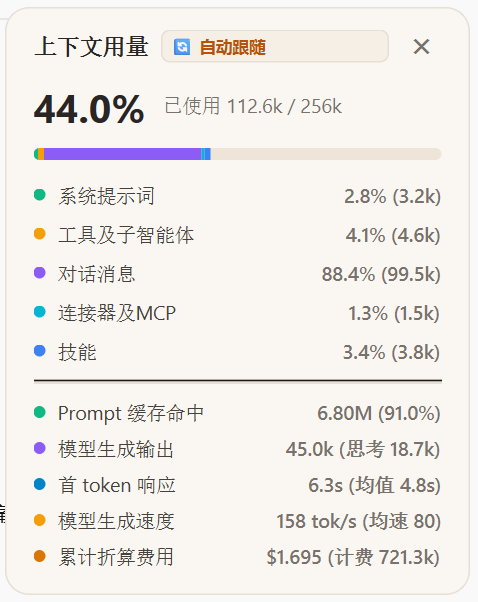
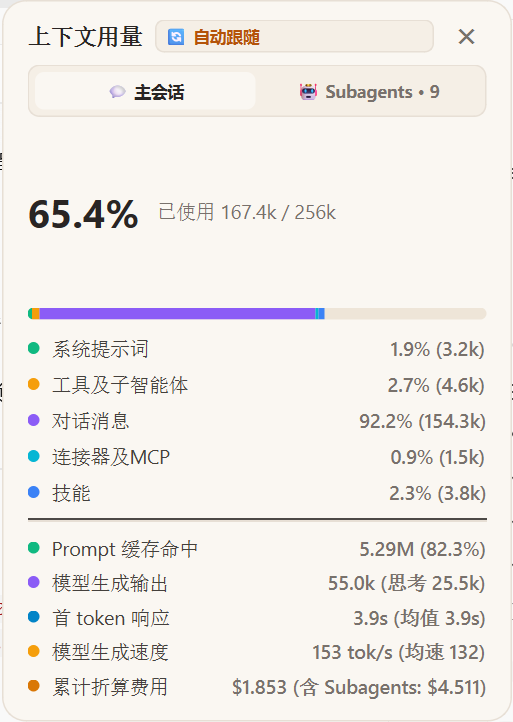
docs(token-capsule): 升级产品巡礼展示矩阵与Subagent集群双模态文档

diff --git a/tools/token-capsule/.scratch/readme-subagent-cluster-showcase/spec.md b/tools/token-capsule/.scratch/readme-subagent-cluster-showcase/spec.md
@@ -1,0 +1,111 @@
+Status: closed
+
+# Specification: Subagent Cluster & Hybrid Layout Showcase for Repository READMEs
+
+## Problem Statement
+
+The repository has undergone significant feature and architectural updates over recent commits—specifically the introduction of recursive multi-level Subagent discovery, real-time cluster telemetry, dual-billing linkage, and hybrid layout modes (Compact Tabbed 320px vs Dual-Wing Radar 680px with persistent system tray switching).
+
+However, the public-facing documentation across GitHub (`README.md` and `README_EN.md`) still reflects the initial single-session v1 release:
+1. The existing telemetry screenshots show obsolete single-card interfaces without the Subagents tab or dual-billing cost rollups.
+2. The revolutionary multi-level Subagent tree hierarchy (L1 -> L2 -> L3) and the expansive Dual-Wing Radar layout mode are completely absent from the visual tour and core feature catalog.
+3. Visitors landing on the repository cannot perceive the tool's true capabilities when managing complex, multi-agent AI coding sessions in Google Antigravity.
+
+The maintainer has provided three brand-new, high-resolution screenshots capturing these capabilities in action:
+- `D:\agent\gemini\new\图库\屏幕截图 2026-09-04 222916.png` (Dual-Wing Radar Mode with multi-level recursive Subagent tree, global combined billing, and context settings menu).
+- `D:\agent\gemini\new\图库\屏幕截图 2026-09-04 221756.png` (Compact Tab Mode - Primary Session view with top tab bar and dual billing summary).
+- `D:\agent\gemini\new\图库\屏幕截图 2026-09-04 221746.png` (Compact Tab Mode - Subagents view with live cluster status badges and nested accordion task breakdown).
+
+These new assets must replace the outdated imagery, introduce the major new features, and present a cohesive, bilingual visual showcase aligned with open-source presentation standards.
+
+## Solution
+
+1. **Asset Ingestion and Standardization**:
+   - Ingest the three newly captured high-resolution screenshot files from `D:\agent\gemini\new\图库/`.
+   - Replace the outdated single-session telemetry card with the new Compact Tab Primary Session view showing the tab bar and dual billing linkage.
+   - Standardize and ingest the Compact Subagents Tab Accordion view and the Dual-Wing Radar view into the version-controlled image directory.
+
+2. **Core Feature Section Evolution**:
+   - Elevate the Subagent cluster monitoring engine, recursive multi-level hierarchy, and dual billing linkage to prominent top-level features in both Chinese and English READMEs.
+   - Introduce the hybrid layout architecture (Compact Tabbed vs Dual-Wing Radar) and system tray/context menu mode switching as flagship usability enhancements.
+
+3. **Product Tour Layout Restructuring**:
+   - Restructure the Product Tour into a structured 3-tier showcase matrix:
+     - **Tier 1 (Desktop Integration)**: Minimal Floating Pill alongside In-Situ Antigravity IDE Workspace.
+     - **Tier 2 (Compact Dual-Tab Perspectives)**: Primary Session Telemetry Card paired side-by-side with Subagent Cluster Accordion Card.
+     - **Tier 3 (Full-Scale Radar & Tray Orchestration)**: Dual-Wing Recursive Radar layout alongside the System Tray Theme and Layout Switcher.
+   - Accompany each screenshot with authentic, informative captions detailing the exact engineering mechanics displayed.
+
+4. **Architectural Diagram & Bilingual Documentation Symmetry**:
+   - Update the Mermaid system architecture flowchart to reflect the multi-file SQLite WAL polling loop and transcript sniffing engine.
+   - Maintain strict structural, typographic, and semantic symmetry between the Chinese and English documentation files.
+   - Synchronize the tool-scoped documentation to ensure internal consistency.
+
+## User Stories
+
+1. As an open-source explorer landing on the GitHub repository, I want to see an up-to-date visual showcase displaying the latest Subagent cluster monitoring capabilities, so that I immediately recognize the tool's modern feature set.
+2. As an AI engineer managing multi-agent workflows in Antigravity, I want to see the Dual-Wing Radar layout screenshot, so that I understand how the tool displays primary sessions and derivative agents side-by-side without context switching.
+3. As a developer evaluating desktop footprint, I want to compare the 320px Compact Tab mode with the 680px Dual-Wing Radar mode in the Product Tour, so that I can see how the application adapts to both minimal and expansive workspace needs.
+4. As a cost-conscious developer, I want to see how the dual-billing linkage displays combined Primary Session and Subagent cluster expenditure, so that I know I can avoid unexpected API budget overruns.
+5. As a user operating nested sub-agents (e.g. Teamwork Lead -> Project Orchestrator -> Workers), I want to see the multi-level tree hierarchy in action, so that I know recursive tasks are grouped and rolled up logically.
+6. As a user browsing the Compact Tab mode, I want to see both the Primary Session tab and the Subagents accordion tab, so that I understand the segmented navigation model.
+7. As an engineer interested in desktop ergonomics, I want to see the system tray and right-click context menu demonstrating layout mode and theme switching, so that I know how to control the window without opening heavy settings panels.
+8. As an English-speaking developer reading the international documentation, I want all captions, table headers, and feature highlights to use precise, idiomatic English terminology, so that I receive the exact same clarity as Chinese readers.
+9. As a mobile or narrow-screen reader, I want the image grid tables to adapt smoothly with percentage-based responsive columns, so that the documentation renders cleanly across diverse viewport sizes.
+10. As a repository maintainer, I want all referenced image assets tracked locally in version control with kebab-case conventions, so that external CDN degradation or broken relative links are permanently prevented.
+11. As a developer inspecting the system architecture, I want an updated Mermaid diagram that shows how `transcript.jsonl` sniffing connects to Subagent WAL polling and Proto decoding, so that I can quickly grasp the telemetry pipeline.
+12. As a monorepo contributor, I want the tool-level documentation and the repository root documentation to remain mutually aligned, so that developers working in either directory encounter identical expectations.
+
+## Implementation Decisions
+
+- **Asset Replacement and Naming Scheme**:
+  - Replace the existing single-session telemetry screenshot (`03-telemetry-card.png`) with the updated Compact Tab Primary Session screenshot (`屏幕截图 2026-09-04 221756.png`), preserving existing inbound references while refreshing the visual to show the tab bar and dual billing.
+  - Ingest the Compact Tab Subagents Accordion screenshot (`屏幕截图 2026-09-04 221746.png`) as a newly tracked asset named `06-subagent-accordion-tab.png`.
+  - Ingest the Dual-Wing Radar screenshot (`屏幕截图 2026-09-04 222916.png`) as a newly tracked asset named `07-dual-wing-radar.png`.
+
+- **Visual Showcase Matrix Architecture**:
+  - Organize the Product Tour into three thematic two-column rows using HTML tables:
+    - Row 1 (Form & Flow): Collapsed Floating Pill & In-Situ Workspace.
+    - Row 2 (Compact Dual-Mode): Primary Session 5-Segment Telemetry & Subagent Cluster Accordion Card.
+    - Row 3 (Full-Scale Radar & Control): Dual-Wing Multi-Level Recursive Radar & System Tray Theme/Layout Control.
+  - Use bold title headings and explanatory subtext within `<sub>` tags for each item.
+
+- **Feature Catalog Restructuring**:
+  - Add explicit headings for "Subagent Cluster Telemetry & Recursive Tree Hierarchy" and "Hybrid Dual-Layout Modes (Compact Tab vs Dual-Wing Radar)".
+  - Highlight key technical guarantees: zero-jitter active session tracking, multi-level cascade cost rollups, non-rebounding accordion state memory, and persistent tray configuration.
+
+- **Architecture Diagram Enhancement**:
+  - Expand the Mermaid pipeline: from active session detection to concurrent extraction of Subagent UUIDs via `transcript.jsonl`, parallel SQLite WAL polling, Proto usage blob decoding, and reactive dispatch to Qt UI components.
+
+- **Bilingual Symmetry Mandate**:
+  - Every modification applied to `README.md` must be mirrored in `README_EN.md` with idiomatic technical translations (e.g. "Dual-Wing Radar Mode", "Recursive Multi-Level Hierarchy", "Dual-Billing Linkage").
+
+## Testing Decisions
+
+- **Good Test Definition**:
+  - A good test validates observable documentation artifacts and asset integrity from an end-user or renderer perspective: file existence, image readability, markdown syntax validity, link resolution, HTML tag completeness, and git tree consistency. It does not probe internal PySide6 or SQLite runtime code.
+
+- **Seams Tested**:
+  - **Highest Seam: Documentation & Asset Integrity Seam (Static Verification)**:
+    - Verification that all ingested PNG files exist at their target paths with non-zero byte size.
+    - Verification that every `<img>` tag and markdown link resolves to a valid, existing relative file path.
+    - Verification that all HTML table tags (`<table>`, `<tr>`, `<td>`, `<sub>`, `<p>`) are properly matched and closed.
+    - Verification that the Mermaid code block complies with valid Mermaid syntax.
+    - Verification that `README.md` and `README_EN.md` have matching heading counts and corresponding image references.
+
+- **Prior Art**:
+  - The previous visual showcase release (`tools/token-capsule/.scratch/readme-visual-showcase/`) used automated static verification of image existence and markdown link parity prior to git publication.
+
+## Out of Scope
+
+- Modifying the underlying PySide6 UI or Data Engine source code (the application features are already fully implemented and verified in preceding commits).
+- Generating video demonstrations or animated GIF assets (static high-resolution PNGs are specified).
+- Changing root monorepo governance files beyond README and image assets.
+
+## Further Notes
+
+- The three source screenshots are located at:
+  - `D:\agent\gemini\new\图库\屏幕截图 2026-09-04 222916.png`
+  - `D:\agent\gemini\new\图库\屏幕截图 2026-09-04 221756.png`
+  - `D:\agent\gemini\new\图库\屏幕截图 2026-09-04 221746.png`
+- The spec is published directly to the project issue tracker under `tools/token-capsule/.scratch/readme-subagent-cluster-showcase/spec.md`.

diff --git a/README.md b/README.md
@@ -48,13 +48,22 @@
   内置纯 Python 原生实现的无依赖 Protobuf 解码器，直接从 SQLite WAL 日志中提取 `gen_metadata` 二进制数据块，精确计算：
   * **TTFT (Time To First Token)**：首字响应延迟（毫秒级）
   * **Speed (tok/s)**：流式生成吞吐速率（当轮速度与全会话历史加权均值）
-* 💰 **财务计费估算 (Cost & Cache Metering)**  
-  实时统计未缓存 Prompt、生成 Candidate、Prompt Cache 缓存命中量及深度思考（Thinking）Token，换算美元开销并计算缓存命中收益率。
+* 🤖 **Subagent 智能体集群监控与多层级树形级联 (Subagent Cluster & Recursive Tree Hierarchy)**  
+  * 自动监听主会话 `transcript.jsonl`，毫秒级提取所有派生子智能体（Subagents）及其业务角色与运行状态（运行中/已完成）。
+  * 业界率先支持 **L1 ➔ L2 ➔ L3 多层级嵌套树形级联展示**（如 Teamwork Lead ➔ Project Orchestrator ➔ Workers）。
+  * 节点自身计费独立核算，派生子任务自动级联汇总（如 `派生 16 个子任务 (6.78M · $17.701)`）。
+  * 手风琴卡片状态智能记忆防抖，轮询重绘不回弹、不抖动，彻底消除历史日志干扰。
+* 📐 **混合双布局体系 (Hybrid Dual-Layout Modes)**  
+  * **紧凑单卡模式 (Compact Tabbed Mode, 320px)**：顶部分段 Tab 丝滑切换「💬 主会话」与「🤖 Subagents · N」，支持手风琴平滑折叠展开，适合日常专注编码。
+  * **旁置双翼模式 (Dual-Wing Radar Mode, 680px)**：左右双屏并列展示主会话物理卡片与集群实时雷达，一屏尽览多 Agent 协同，底部配备全局联合账单条。
+* 💰 **财务计费估算与双计费联动 (Cost & Dual-Billing Linkage)**  
+  * 物理上下文与财务口径解耦：主会话进度条严格反映 256k 物理窗口，底部同步展示 `累计折算费用: $X.XXX (含 Subagents: $Y.YYY)`。
+  * 实时统计未缓存 Prompt、生成 Candidate、Prompt Cache 命中量及深度思考（Thinking）Token，换算美元开销并计算缓存收益。
 * 🎨 **5 套主题风格与桌面极简交互**  
   * 优雅的无边框半透明微型胶囊（药丸）造型，鼠标随心拖拽，点击一键展开/折叠详细卡片。
   * **5 套精美主题实时热切**：极简明亮、深邃暗夜、磨砂极光、赛博黑客、暖阳纸墨，自动持久化记忆。
   * **会话快速切换**：支持下拉历史会话快速复盘，或一键开启“自动跟随”。
-  * **完善的系统托盘**：右键托盘支持开机自启（注册表托管）、窗口总在最前、位置重置（右上角）与安全退出。
+  * **完善的系统托盘与右键菜单**：右键支持 **「📐 布局模式」**（单卡/双翼切换）、**「🎨 主题风格」**、开机自启（注册表托管）、窗口总在最前、位置重置（右上角）与安全退出。
 * 📦 **免 Python 环境独立运行**  
   已预编译为独立单文件可执行文件（`token-capsule.exe`），无需安装 Python 或任何依赖，即拷即用。
 
@@ -70,21 +79,33 @@
       <sub><b>极简悬浮药丸形态 (Compact Floating Pill)</b><br />无边框半透明胶囊设计，沉浸式贴附在 IDE 右上角，随心拖拽，零视觉干扰实时呈现当前 Token 概览与当轮生成速率。</sub>
     </td>
     <td width="50%" align="center" valign="top">
-      <img src="docs/images/03-telemetry-card.png" alt="五维遥测与财务明细卡片" width="100%" />
-      <br />
-      <sub><b>五维遥测与财务明细卡片 (Telemetry & Cost Card)</b><br />单击展开详细透视看板：System / Tools / Messages / MCP / Skills 5 分段精准拆解、TTFT 首字延迟、当轮与加权均值 tok/s 及实时美元成本换算。</sub>
-    </td>
-  </tr>
-  <tr>
-    <td width="50%" align="center" valign="top">
       <img src="docs/images/04-in-situ-expanded.png" alt="IDE 工作区原位协同" width="100%" />
       <br />
       <sub><b>IDE 工作区原位协同 (In-Situ Workspace Workflow)</b><br />与 Google Antigravity 界面无缝伴生融合，通过 CDP 协议独占锁定前台活跃会话，无论后台有多少 Agent 并发均不跳变。</sub>
     </td>
+  </tr>
+  <tr>
     <td width="50%" align="center" valign="top">
-      <img src="docs/images/05-tray-menu-themes.png" alt="系统托盘与 5 套主题热切" width="100%" />
+      <img src="docs/images/03-telemetry-card.png" alt="紧凑单卡 - 主会话五维透视与双计费" width="100%" />
       <br />
-      <sub><b>系统托盘与 5 套主题热切 (System Tray & 5-Theme Switcher)</b><br />纯亮、暗夜、极光、黑客、暖阳 5 大精美主题实时无缝热切，右键托盘支持开机自启、窗口置顶、位置重置与优雅退出。</sub>
+      <sub><b>紧凑单卡 · 主会话五维透视 (Compact Tab: Primary Session)</b><br />顶部 Tab 栏切换，展示 System / Tools / Messages / MCP / Skills 5 分段精准拆解、TTFT 首字延迟、当轮与加权 tok/s 速率及 <b>双计费联动折算</b>（含 Subagents 费用）。</sub>
+    </td>
+    <td width="50%" align="center" valign="top">
+      <img src="docs/images/06-subagent-accordion-tab.png" alt="紧凑单卡 - Subagent 集群手风琴" width="100%" />
+      <br />
+      <sub><b>紧凑单卡 · Subagent 集群手风琴 (Compact Tab: Subagents Accordion)</b><br />切换至 <code>[🤖 Subagents · N]</code> 标签页，直观展示集群计费消耗大盘条、运行/完成状态指示灯，以及支持平滑折叠展开的多层级任务明细卡片。</sub>
+    </td>
+  </tr>
+  <tr>
+    <td width="50%" align="center" valign="top">
+      <img src="docs/images/07-dual-wing-radar.png" alt="旁置双翼模式与多层级递归雷达" width="100%" />
+      <br />
+      <sub><b>旁置双翼模式 · 多层级递归雷达 (Dual-Wing Radar & Multi-Level Tree)</b><br />680px 左右双翼全景并列，L1 ➔ L2 ➔ L3 多层级嵌套任务树形级联展示，支持派生任务收起/展开与向上汇总计费，底部全局联合账单结算，右键托盘一键无缝热切。</sub>
+    </td>
+    <td width="50%" align="center" valign="top">
+      <img src="docs/images/05-tray-menu-themes.png" alt="系统托盘与 5 套主题/布局热切" width="100%" />
+      <br />
+      <sub><b>系统托盘 · 5 套主题与布局模式热切 (System Tray & Controls)</b><br />纯亮、暗夜、极光、黑客、暖阳 5 大精美主题即切即用，右键支持「📐 布局模式」（单卡/双翼）切换、开机自启、窗口置顶、位置重置与优雅退出。</sub>
     </td>
   </tr>
 </table>
@@ -94,14 +115,31 @@
 ## 🏛 系统工作原理
 
 ```mermaid
-flowchart LR
-    A[Antigravity 进程] -->|写入调试端口| B[DevToolsActivePort]
-    B -->|HTTP /json 探针| C[CDP 嗅探器]
-    C -->|提取前台聚焦会话 UUID| D[Active Session]
-    D -->|300ms 只读无锁轮询| E[SQLite .db & .db-wal]
-    E -->|读取 gen_metadata Blob| F[纯 Python Proto 解码器]
-    F -->|解析 5 大分段 / TTFT / tok/s| G[数据引擎]
-    G -->|Qt Signal/Slot| H[PySide6 桌面悬浮胶囊]
+flowchart TD
+    subgraph AntigravityIDE["Google Antigravity IDE"]
+        A[Antigravity 进程] -->|写入调试端口| B[DevToolsActivePort]
+        C[Active Session 轨迹] -->|追加日志| D[transcript.jsonl]
+    end
+
+    subgraph Engine["数据探针与聚合引擎 (Data Engine)"]
+        B -->|HTTP /json 探针| E[CDP 嗅探器]
+        E -->|提取前台聚焦会话 UUID| F[活跃会话锁定]
+        D -->|提取派生 Subagent 关系| G[递归 Subagent 发现器]
+        F -->|300ms 只读无锁轮询| H[主会话 SQLite & WAL]
+        G -->|增量 mtime 轮询池| I[各 Subagent SQLite & WAL]
+        H -->|读取 gen_metadata Blob| J[纯 Python Proto 解码器]
+        I -->|读取 gen_metadata Blob| J
+        J -->|5 分段 / TTFT / tok/s| K[主会话用量指标]
+        J -->|多级树形 Rollup / 状态| L[集群级联用量指标]
+        K & L -->|联合结算联动| M[双计费与聚合数据中心]
+    end
+
+    subgraph UI["PySide6 桌面伴生胶囊 (Capsule UI)"]
+        M -->|Qt Signal/Slot| N{布局模式}
+        N -->|紧凑单卡 320px| O[Compact Tab: 主会话 / Subagents 手风琴]
+        N -->|旁置双翼 680px| P[Dual-Wing Radar: 左翼主会话 + 右翼全景雷达]
+        Q[系统托盘 / 右键菜单] -->|切换布局 & 5 套主题| N
+    end
 ```
 
 ---

diff --git a/README_EN.md b/README_EN.md
@@ -48,13 +48,22 @@ When developing with **Google Antigravity**, developers frequently encounter the
   Ships with a pure-Python Protobuf parser that directly decodes `gen_metadata` blobs from SQLite WAL logs without external dependencies:
   * **TTFT (Time To First Token)**: Millisecond-level first-token response latency
   * **Speed (tok/s)**: Streaming generation throughput (both current turn and historical weighted average)
-* 💰 **Turn & Cumulative Cost Metering**  
-  Tracks prompt tokens, candidate tokens, Prompt Cache hits, and deep thinking tokens in real time, calculating actual dollar costs and cache hit savings.
+* 🤖 **Subagent Cluster Telemetry & Recursive Tree Hierarchy**  
+  * Automatically sniffs `transcript.jsonl` to extract child Subagents with their semantic role names and live status (`running` / `completed`).
+  * Industry-first support for **L1 ➔ L2 ➔ L3 multi-level recursive tree cascades** (e.g., Teamwork Lead ➔ Project Orchestrator ➔ Workers).
+  * Node-level independent billing plus automatic descendant rollup (e.g., `Derived 16 subtasks (6.78M · $17.701)`).
+  * Persistent accordion state memory across polling cycles—zero jitter, no involuntary collapse, and complete isolation from stale historical sessions.
+* 📐 **Hybrid Dual-Layout Modes**  
+  * **Compact Tabbed Mode (320px)**: Top segmented tabs to switch seamlessly between `[💬 Primary Session]` and `[🤖 Subagents · N]` with smooth collapsible accordion cards for distraction-free coding.
+  * **Dual-Wing Radar Mode (680px)**: Side-by-side panoramic split view displaying the primary session card on the left and full-scale subagent cluster radar on the right, complete with a global combined billing bar.
+* 💰 **Turn & Cumulative Cost Metering with Dual-Billing Linkage**  
+  * Decoupled physical context and financial accounting: Primary 256k progress bar strictly tracks active window capacity, while the footer displays `Total Cost: $X.XXX (incl. Subagents: $Y.YYY)`.
+  * Real-time tracking of uncached prompt, generated candidates, Prompt Cache hits, and deep thinking tokens with live dollar conversions.
 * 🎨 **5 Beautiful Built-in Themes & Modern Desktop UX**  
   * Ultra-compact frameless pill shape with smooth mouse dragging and one-click card expansion.
   * **5 live-switchable themes**: Pure Light, Obsidian Dark, Frosted Aurora, Matrix Neon, and Warm Paper (persisted across restarts).
   * **Session Quick Switching**: Dropdown menu to inspect recent conversations or lock onto Auto-Follow.
-  * **System Tray Ecosystem**: Right-click tray icon to toggle Windows startup (HKCU registry), keep window always-on-top, reset position to the top-right corner, or exit cleanly.
+  * **Comprehensive System Tray & Context Menu**: Right-click to switch **「📐 Layout Mode」** (Compact Tab / Dual-Wing Radar), cycle **「🎨 Themes」**, toggle Windows startup (HKCU registry), keep window always-on-top, reset position to the top-right corner, or exit cleanly.
 * 📦 **Standalone Windows Executable**  
   Ships as a pre-compiled standalone binary (`token-capsule.exe`). No Python runtime or package installation required.
 
@@ -70,21 +79,33 @@ When developing with **Google Antigravity**, developers frequently encounter the
       <sub><b>Ultra-Compact Floating Pill</b><br />Frameless, translucent floating widget docked unobtrusively in your workspace. Drag anywhere with zero clutter while tracking active session tokens and streaming throughput.</sub>
     </td>
     <td width="50%" align="center" valign="top">
-      <img src="docs/images/03-telemetry-card.png" alt="5-Segment Telemetry & Cost Breakdown Card" width="100%" />
-      <br />
-      <sub><b>5-Segment Telemetry & Cost Breakdown Card</b><br />Click to expand in-depth telemetry: exact breakdown across System, Tools, Messages, MCP, and Skills, alongside TTFT latency, streaming tok/s, and real-time dollar cost metering.</sub>
-    </td>
-  </tr>
-  <tr>
-    <td width="50%" align="center" valign="top">
       <img src="docs/images/04-in-situ-expanded.png" alt="In-Situ Antigravity Workspace Integration" width="100%" />
       <br />
       <sub><b>In-Situ Antigravity Workspace Integration</b><br />Seamless companion experience floating alongside active agent workflows, locked to your foreground conversation via CDP without session jumping.</sub>
     </td>
+  </tr>
+  <tr>
+    <td width="50%" align="center" valign="top">
+      <img src="docs/images/03-telemetry-card.png" alt="Compact Tab - Primary Session Telemetry & Dual Billing" width="100%" />
+      <br />
+      <sub><b>Compact Tab · Primary Session Telemetry (5-Segment Breakdown)</b><br />Segmented tab bar navigation detailing System / Tools / Messages / MCP / Skills breakdown, TTFT latency, streaming tok/s, and <b>linked dual-billing rollups</b> (including Subagent expenditures).</sub>
+    </td>
+    <td width="50%" align="center" valign="top">
+      <img src="docs/images/06-subagent-accordion-tab.png" alt="Compact Tab - Subagents Cluster Accordion" width="100%" />
+      <br />
+      <sub><b>Compact Tab · Subagents Cluster Accordion</b><br />Switch to the <code>[🤖 Subagents · N]</code> tab for a cluster summary header, active/completed status indicators, and smooth multi-level collapsible task detail cards.</sub>
+    </td>
+  </tr>
+  <tr>
+    <td width="50%" align="center" valign="top">
+      <img src="docs/images/07-dual-wing-radar.png" alt="Dual-Wing Radar Mode & Multi-Level Recursive Tree" width="100%" />
+      <br />
+      <sub><b>Dual-Wing Radar Mode · Multi-Level Recursive Tree</b><br />680px panoramic side-by-side layout displaying L1 ➔ L2 ➔ L3 recursive task hierarchy, expandable child tasks with rollup cost rollups, combined global billing, and instant tray switching.</sub>
+    </td>
     <td width="50%" align="center" valign="top">
       <img src="docs/images/05-tray-menu-themes.png" alt="System Tray Menu & 5-Theme Switcher" width="100%" />
       <br />
-      <sub><b>System Tray Menu & 5-Theme Switcher</b><br />Hot-switch instantly across 5 curated themes (Pure Light, Obsidian Dark, Frosted Aurora, Matrix Neon, Warm Paper) with startup toggle, window pinning, and quick position reset.</sub>
+      <sub><b>System Tray Menu · 5 Themes & Layout Switcher</b><br />Instant hot-switching across 5 curated themes (Pure Light, Obsidian Dark, Frosted Aurora, Matrix Neon, Warm Paper), layout mode toggle (Single / Dual-Wing), autostart, window pinning, and position reset.</sub>
     </td>
   </tr>
 </table>
@@ -94,14 +115,31 @@ When developing with **Google Antigravity**, developers frequently encounter the
 ## 🏛 Architecture & Workflow
 
 ```mermaid
-flowchart LR
-    A[Antigravity Process] -->|Writes Debug Port| B[DevToolsActivePort]
-    B -->|HTTP /json Probe| C[CDP Sniffer]
-    C -->|Extracts Foreground UUID| D[Active Session]
-    D -->|300ms Read-Only Polling| E[SQLite .db & .db-wal]
-    E -->|Extracts gen_metadata Blob| F[Pure-Python Proto Decoder]
-    F -->|Computes 5 Segments / TTFT / tok/s| G[Data Engine]
-    G -->|Qt Signal/Slot| H[PySide6 Floating Capsule]
+flowchart TD
+    subgraph AntigravityIDE["Google Antigravity IDE"]
+        A[Antigravity Process] -->|Writes Debug Port| B[DevToolsActivePort]
+        C[Active Session Trace] -->|Appends Log| D[transcript.jsonl]
+    end
+
+    subgraph Engine["Data Sniffer & Aggregation Engine"]
+        B -->|HTTP /json Probe| E[CDP Sniffer]
+        E -->|Extracts Foreground UUID| F[Active Session Lock]
+        D -->|Extracts Subagent Graph| G[Recursive Subagent Sniffer]
+        F -->|300ms Read-Only Polling| H[Primary SQLite & WAL]
+        G -->|Incremental mtime Pool| I[Subagent SQLites & WALs]
+        H -->|Reads gen_metadata Blob| J[Pure-Python Proto Decoder]
+        I -->|Reads gen_metadata Blob| J
+        J -->|5 Segments / TTFT / tok/s| K[Primary Session Metrics]
+        J -->|Tree Rollup / Status| L[Cluster Cascade Metrics]
+        K & L -->|Linked Combined Billing| M[Dual-Billing Aggregator]
+    end
+
+    subgraph UI["PySide6 Companion Capsule"]
+        M -->|Qt Signal/Slot| N{Layout Mode}
+        N -->|Compact Tab 320px| O[Compact Tab: Primary / Subagents Accordion]
+        N -->|Dual-Wing Radar 680px| P[Dual-Wing Radar: Primary Card + Full-Scale Radar]
+        Q[System Tray / Context Menu] -->|Switch Layout & 5 Themes| N
+    end
 ```
 
 ---

diff --git a/tools/token-capsule/.scratch/readme-subagent-cluster-showcase/issues/02-update-bilingual-readmes-and-architecture.md b/tools/token-capsule/.scratch/readme-subagent-cluster-showcase/issues/02-update-bilingual-readmes-and-architecture.md
@@ -1,0 +1,23 @@
+Status: resolved
+
+# Issue 02: Update Bilingual READMEs, Product Tour Matrix & System Architecture
+
+## Goal
+
+Synchronize root `README.md`, `README_EN.md`, and `tools/token-capsule/README.md`:
+1. **Core Features Evolution**:
+   - Add detailed highlights for Subagent Cluster Monitoring, Recursive Multi-Level Tree Hierarchy, Dual-Billing Linkage, and Hybrid Layout Modes (Compact Tab vs Dual-Wing Radar).
+2. **Product Tour Restructuring**:
+   - Upgrade the Product Tour into a 3-tier responsive 2-column matrix:
+     - Tier 1: Floating Pill (`02-capsule-pill.png`) & In-Situ Workspace (`04-in-situ-expanded.png`).
+     - Tier 2: Compact Tab Primary Session (`03-telemetry-card.png` updated) & Compact Tab Subagents Accordion (`06-subagent-accordion-tab.png`).
+     - Tier 3: Dual-Wing Multi-Level Radar (`07-dual-wing-radar.png`) & System Tray Theme/Layout Switcher (`05-tray-menu-themes.png`).
+3. **Architecture Diagram**:
+   - Update the Mermaid diagram to reflect `transcript.jsonl` Subagent extraction, parallel SQLite WAL polling, Proto decoding, and Qt dispatch.
+4. **Bilingual Symmetry**:
+   - Ensure complete semantic and structural parity between Chinese and English documents.
+
+## Verification
+
+- Check that both `README.md` and `README_EN.md` reference all six showcase assets correctly.
+- Verify HTML table tag pairs and markdown rendering.

diff --git a/tools/token-capsule/README.md b/tools/token-capsule/README.md
@@ -16,8 +16,10 @@
    * 原生解码 Protobuf 毫秒级 TTFT（首 token 耗时）与推理输出速度（`tok/s`），提供当轮数据与全会话历史均值。
 4. **子智能体集群监控与双计费联动 (Subagent Cluster Monitoring)**：
    * 自动解析会话执行轨迹（`transcript.jsonl`），动态捕获派生的子智能体（Subagents）及其业务角色。
+   * 业界率先支持 **L1 ➔ L2 ➔ L3 多层级嵌套树形级联监控**，节点自身计费独立核算，派生子任务自动级联向上汇总。
    * 毫秒级增量轮询各子智能体的 SQLite / WAL 数据库，聚合计算集群总 Token 与财务花费。
    * 支持双计费联动透视：主会话计费卡片同步展示 `主会话费用 (含集群: $X.XXX)`。
+   * 手风琴卡片状态智能记忆防抖，轮询重绘不回弹、不抖动，消除历史日志干扰。
    * 迷你药丸收起态支持实时后台活跃智能体感知（如 `· 🤖2`）。
 5. **混合双布局体系 (Hybrid Layout Modes)**：
    * **紧凑单卡 (Compact Tabbed / 方案 A)**：320px 宽度，顶部分段 Tab 切换「💬 主会话」与「🤖 智能体集群 • N」，支持子智能体手风琴卡片平滑展开查看输入/生成/思考/首字响应与速度细项。

diff --git a/tools/token-capsule/.scratch/readme-subagent-cluster-showcase/issues/01-ingest-and-replace-visual-assets.md b/tools/token-capsule/.scratch/readme-subagent-cluster-showcase/issues/01-ingest-and-replace-visual-assets.md
@@ -1,0 +1,14 @@
+Status: resolved
+
+# Issue 01: Ingest New Screenshots & Replace Obsolete Assets
+
+## Goal
+
+Ingest the three newly provided screenshots from `D:\agent\gemini\new\图库/` into `docs/images/`:
+1. Copy `D:\agent\gemini\new\图库\屏幕截图 2026-09-04 221756.png` over `docs/images/03-telemetry-card.png` to replace the outdated v1 card with the modern Compact Tab Primary Session view (featuring tab switcher and dual-billing linkage).
+2. Copy `D:\agent\gemini\new\图库\屏幕截图 2026-09-04 221746.png` to `docs/images/06-subagent-accordion-tab.png` to introduce the Compact Tab Subagents Accordion view.
+3. Copy `D:\agent\gemini\new\图库\屏幕截图 2026-09-04 222916.png` to `docs/images/07-dual-wing-radar.png` to introduce the Dual-Wing Radar layout with multi-level recursive tree and context settings menu.
+
+## Verification
+
+- Check that all three target files exist in `docs/images/` and have non-zero file size.

diff --git a/tools/token-capsule/.scratch/readme-subagent-cluster-showcase/issues/03-verify-asset-integrity-and-git-commit.md b/tools/token-capsule/.scratch/readme-subagent-cluster-showcase/issues/03-verify-asset-integrity-and-git-commit.md
@@ -1,0 +1,13 @@
+Status: resolved
+
+# Issue 03: Verify Asset Integrity, Markdown Links & Atomic Git Commit
+
+## Goal
+
+1. Execute automated static testing to verify:
+   - All files in `docs/images/` exist and are valid PNG images.
+   - All image paths and links in `README.md`, `README_EN.md`, and `tools/token-capsule/README.md` are valid and reachable.
+   - All HTML tags are well-formed and paired.
+   - Mermaid diagram syntax is valid.
+2. Formulate an atomic Git commit strictly adhering to the Conventional Commits specification:
+   `docs(readme): 升级产品巡礼展示矩阵与Subagent集群双模态文档`
